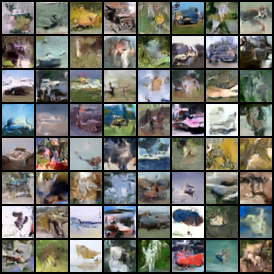
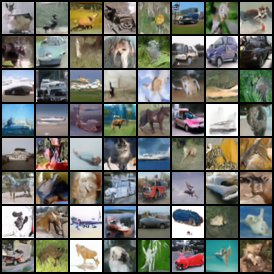
results @ 809 log points

diff --git a/results.js b/results.js
@@ -6347,6 +6347,150 @@ const DATA = {
    "lr": 2.5607968894518774e-07,
    "sec_per_step": 0.9828358840942383,
    "wall_h": null
+  },
+  {
+   "step": 39150,
+   "epoch": 200.76923076923077,
+   "loss": 0.1489717197418213,
+   "lr": 2.284272963036127e-07,
+   "sec_per_step": 0.9842243576049805,
+   "wall_h": null
+  },
+  {
+   "step": 39200,
+   "epoch": 201.02564102564102,
+   "loss": 0.14904664635658263,
+   "lr": 2.023527031418726e-07,
+   "sec_per_step": 0.9831539011001587,
+   "wall_h": null
+  },
+  {
+   "step": 39250,
+   "epoch": 201.28205128205127,
+   "loss": 0.14840380668640138,
+   "lr": 1.7785632180670198e-07,
+   "sec_per_step": 0.985258560180664,
+   "wall_h": null
+  },
+  {
+   "step": 39300,
+   "epoch": 201.53846153846155,
+   "loss": 0.1493655276298523,
+   "lr": 1.549385396867553e-07,
+   "sec_per_step": 0.9806451749801636,
+   "wall_h": null
+  },
+  {
+   "step": 39350,
+   "epoch": 201.7948717948718,
+   "loss": 0.14839522510766984,
+   "lr": 1.3359971920655633e-07,
+   "sec_per_step": 0.9803544616699219,
+   "wall_h": null
+  },
+  {
+   "step": 39400,
+   "epoch": 202.05128205128204,
+   "loss": 0.14974146395921706,
+   "lr": 1.1384019782075816e-07,
+   "sec_per_step": 0.9825805187225342,
+   "wall_h": null
+  },
+  {
+   "step": 39450,
+   "epoch": 202.30769230769232,
+   "loss": 0.14864395409822465,
+   "lr": 9.56602880087587e-08,
+   "sec_per_step": 0.9822079420089722,
+   "wall_h": null
+  },
+  {
+   "step": 39500,
+   "epoch": 202.56410256410257,
+   "loss": 0.14964674711227416,
+   "lr": 7.906027726981568e-08,
+   "sec_per_step": 0.9771823978424072,
+   "wall_h": null
+  },
+  {
+   "step": 39550,
+   "epoch": 202.82051282051282,
+   "loss": 0.14943228751420976,
+   "lr": 6.404042811846145e-08,
+   "sec_per_step": 0.9768925189971924,
+   "wall_h": null
+  },
+  {
+   "step": 39600,
+   "epoch": 203.07692307692307,
+   "loss": 0.14939016938209534,
+   "lr": 5.0600978080384e-08,
+   "sec_per_step": 0.9824771022796631,
+   "wall_h": null
+  },
+  {
+   "step": 39650,
+   "epoch": 203.33333333333334,
+   "loss": 0.14788178771734237,
+   "lr": 3.8742139688630055e-08,
+   "sec_per_step": 0.9818890190124512,
+   "wall_h": null
+  },
+  {
+   "step": 39700,
+   "epoch": 203.5897435897436,
+   "loss": 0.15005287200212478,
+   "lr": 2.846410048027437e-08,
+   "sec_per_step": 0.9817104768753052,
+   "wall_h": null
+  },
+  {
+   "step": 39750,
+   "epoch": 203.84615384615384,
+   "loss": 0.14919882237911225,
+   "lr": 1.976702299344435e-08,
+   "sec_per_step": 0.982449836730957,
+   "wall_h": null
+  },
+  {
+   "step": 39800,
+   "epoch": 204.10256410256412,
+   "loss": 0.14795603841543198,
+   "lr": 1.265104476476653e-08,
+   "sec_per_step": 0.9833070802688598,
+   "wall_h": null
+  },
+  {
+   "step": 39850,
+   "epoch": 204.35897435897436,
+   "loss": 0.15102614164352418,
+   "lr": 7.116278327157222e-09,
+   "sec_per_step": 0.9805765151977539,
+   "wall_h": null
+  },
+  {
+   "step": 39900,
+   "epoch": 204.6153846153846,
+   "loss": 0.14849657207727432,
+   "lr": 3.1628112080683835e-09,
+   "sec_per_step": 0.9829413652420044,
+   "wall_h": null
+  },
+  {
+   "step": 39950,
+   "epoch": 204.87179487179486,
+   "loss": 0.15037164688110352,
+   "lr": 7.907059280998219e-10,
+   "sec_per_step": 0.9818490648269653,
+   "wall_h": null
+  },
+  {
+   "step": 40000,
+   "epoch": 205.12820512820514,
+   "loss": 0.15226904839277267,
+   "lr": 0.0,
+   "sec_per_step": 0.9811614608764648,
+   "wall_h": null
   }
  ],
  "samples": [
@@ -6539,6 +6683,11 @@ const DATA = {
    "step": 39000,
    "src": "samples/0039000.png",
    "delta": 0.13742074370384216
+  },
+  {
+   "step": 40000,
+   "src": "samples/0040000.png",
+   "delta": 0.10635889321565628
   }
  ],
  "sanity": {
@@ -6718,14 +6867,14 @@ const DATA = {
   }
  ],
  "solver": {
-  "step": 2000,
+  "step": 40000,
   "n": 64,
   "entries": [
    {
     "method": "dopri5",
     "steps": null,
-    "nfe": 122,
-    "seconds": 17.870015144348145,
+    "nfe": 134,
+    "seconds": 5.853092908859253,
     "mae_vs_dopri5": 0.0,
     "src": "solver/dopri5.png"
    },
@@ -6733,56 +6882,56 @@ const DATA = {
     "method": "euler",
     "steps": 1,
     "nfe": 1,
-    "seconds": 0.25923895835876465,
-    "mae_vs_dopri5": 27.926965713500977,
+    "seconds": 0.22562265396118164,
+    "mae_vs_dopri5": 29.8941593170166,
     "src": "solver/euler1.png"
    },
    {
     "method": "euler",
     "steps": 2,
     "nfe": 2,
-    "seconds": 0.33583998680114746,
-    "mae_vs_dopri5": 22.699182510375977,
+    "seconds": 0.10286998748779297,
+    "mae_vs_dopri5": 25.499923706054688,
     "src": "solver/euler2.png"
    },
    {
     "method": "euler",
     "steps": 4,
     "nfe": 4,
-    "seconds": 0.294144868850708,
-    "mae_vs_dopri5": 16.0380916595459,
+    "seconds": 0.16331815719604492,
+    "mae_vs_dopri5": 18.8071346282959,
     "src": "solver/euler4.png"
    },
    {
     "method": "euler",
     "steps": 8,
     "nfe": 8,
-    "seconds": 1.3285198211669922,
-    "mae_vs_dopri5": 9.789413452148438,
+    "seconds": 0.3206970691680908,
+    "mae_vs_dopri5": 11.834681510925293,
     "src": "solver/euler8.png"
    },
    {
     "method": "euler",
     "steps": 16,
     "nfe": 16,
-    "seconds": 2.403784990310669,
-    "mae_vs_dopri5": 5.529561519622803,
+    "seconds": 0.6327180862426758,
+    "mae_vs_dopri5": 6.737436771392822,
     "src": "solver/euler16.png"
    },
    {
     "method": "euler",
     "steps": 32,
     "nfe": 32,
-    "seconds": 4.320483207702637,
-    "mae_vs_dopri5": 2.950780153274536,
+    "seconds": 1.3490397930145264,
+    "mae_vs_dopri5": 3.6751301288604736,
     "src": "solver/euler32.png"
    },
    {
     "method": "euler",
     "steps": 50,
     "nfe": 50,
-    "seconds": 7.155087947845459,
-    "mae_vs_dopri5": 1.920989990234375,
+    "seconds": 2.089411973953247,
+    "mae_vs_dopri5": 2.4400432109832764,
     "src": "solver/euler50.png"
    }
   ]
